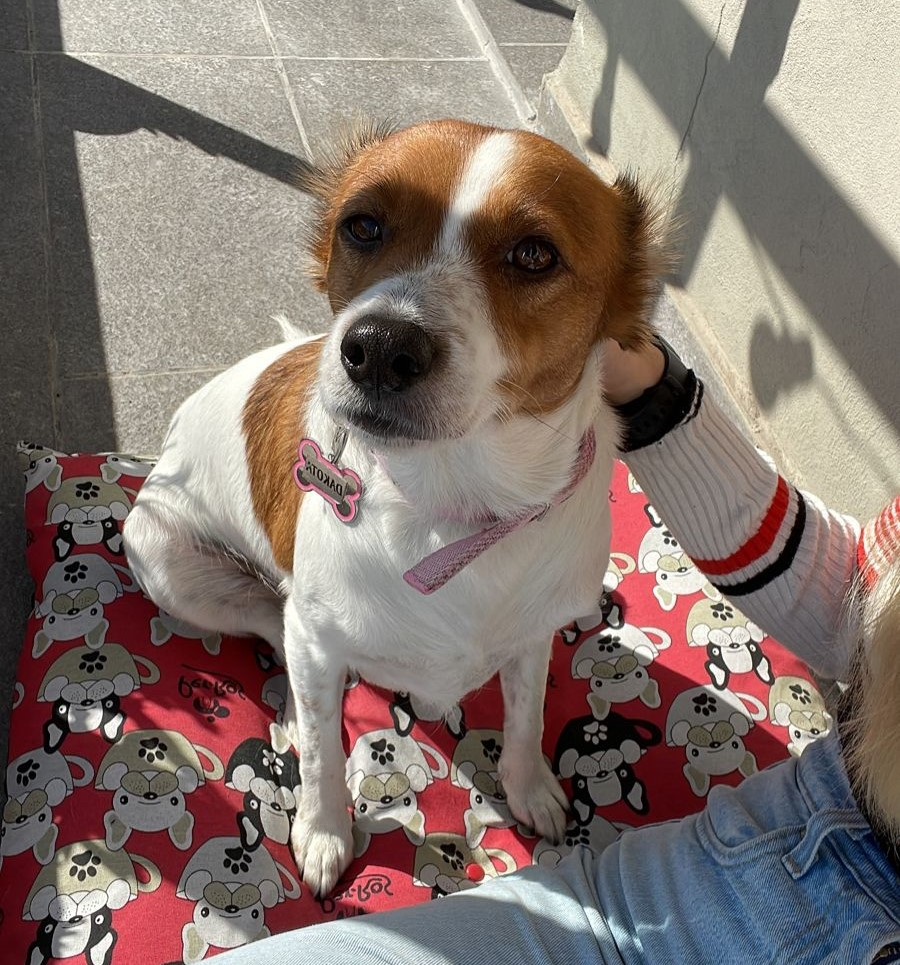
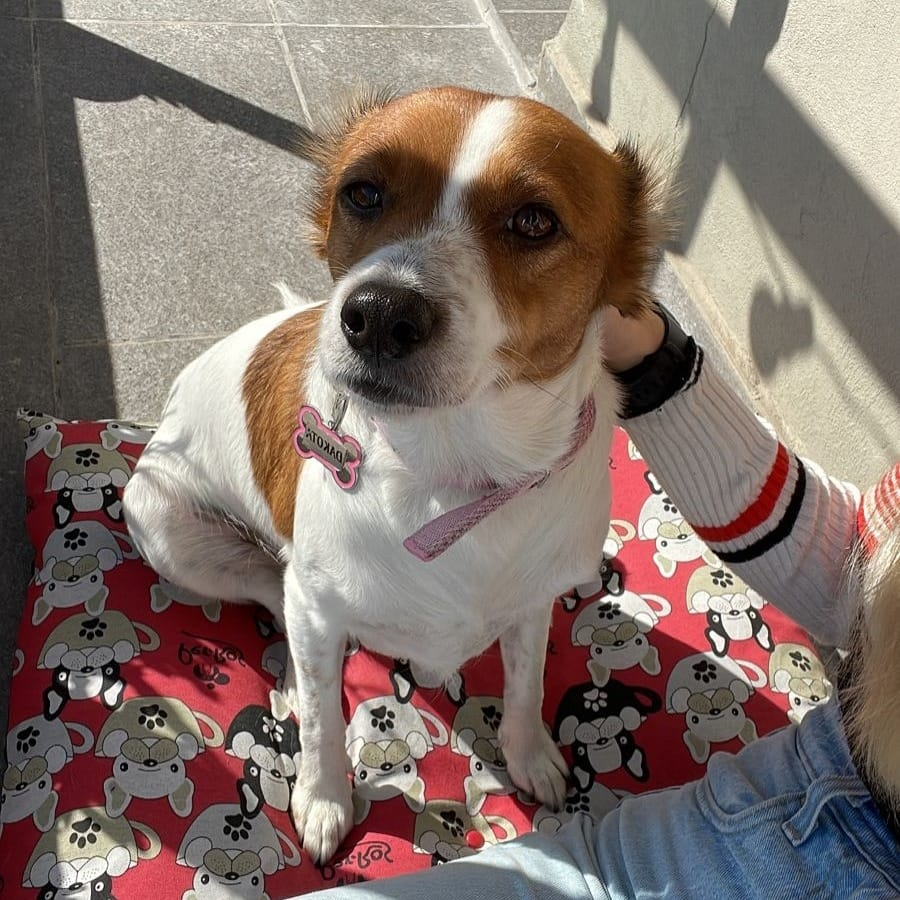
cambio imagenes, color headers

diff --git a/index.html b/index.html
@@ -25,11 +25,17 @@
                     <img src="./img/dakota.jpg" class="d-block w-100 rounded-circle fotodatoka" alt="...">
                 </div>
                 <div class="carousel-item">
-                    <img src="./img/dakota.jpg" class="d-block w-100 rounded-circle fotodatoka" alt="...">
+                    <img src="./img/dakota2.jpg" class="d-block w-100 rounded-circle fotodatoka" alt="...">
                 </div>
                 <div class="carousel-item">
-                    <img src="./img/dakota.jpg" class="d-block w-100 rounded-circle fotodatoka" alt="...">
+                    <img src="./img/dakota3.jpg" class="d-block w-100 rounded-circle fotodatoka" alt="...">
                 </div>
+                <div class="carousel-item">
+                  <img src="./img/dakota4.jpg" class="d-block w-100 rounded-circle fotodatoka" alt="...">
+              </div>
+              <div class="carousel-item">
+                <img src="./img/dakota3.jpg" class="d-block w-100 rounded-circle fotodatoka" alt="...">
+            </div>
                 </div>
                 <a class="carousel-control-prev text-dark" href="#carouselExampleIndicators" role="button" data-slide="prev">
                 <span  aria-hidden="true"><i class="fa-solid fa-angle-left"></i> </span>
@@ -66,7 +72,8 @@
                             <li><b> Edad:</b> 4 añitos.</li>
                             <li><b> Genero:</b> Hembra.</li>
                             <li><b> Raza:</b> Calle y Baldoza.</li>
-                            <li>Me llevo muy bien con perritos y gatitos.</li>
+                            <li>Me llevo muy bien con perritos 🐶 y gatitos 😸.</li>
+                            <center><li style="font-size: 25px;"></li></center>
                         </ul>
                     </div>
                   </div>
@@ -74,7 +81,7 @@
 
                 <!-- MIS DUEÑOS -->
                 <div class="card">
-                  <div class="card-header" id="headingTwo">
+                  <div class="card-header" id="headingTwo" >
                     <h2 class="mb-0">
                       <button class="btn btn-link collapsed" type="button" data-toggle="collapse" data-target="#collapseTwo" aria-expanded="false" aria-controls="collapseTwo" style="color: rgb(0, 0, 0);">
                         <h4 >MI DUEÑA <i class="fa-solid fa-chevron-down"></i></h4>
@@ -86,7 +93,7 @@
                         <ul class="datos">
                             <li><b>Nombre: </b> Josefina Carrio.</li>
                             <li><b> Celular:</b> 3624-887474.</li>
-                            <li><b> Dirección Corrientes:</b> Rivadavia 353, Piso: 5º B.</li>
+                            <li><b> Dirección Corrientes:</b> Rivadavia 353</li>
                             <li><b> Dirección Resistencia:</b> Guemes 366</li>
                             <a href="https://api.whatsapp.com/send?phone=543624887474&text=Hola.%20Encontre%20a%20Dakota"><i class="fa-brands fa-whatsapp"></i> Escribe por whatsapp </a>
                             <br>   
@@ -106,8 +113,8 @@
                     </h2>
                   </div>
                   <div id="collapseThree" class="collapse" aria-labelledby="headingThree" data-parent="#accordionExample">
-                    <div class="card-body">
-                        <iframe src="https://www.google.com/maps/embed?pb=!1m18!1m12!1m3!1d884.9671265179873!2d-58.847212315297085!3d-27.47335279716479!2m3!1f0!2f0!3f0!3m2!1i1024!2i768!4f13.1!3m3!1m2!1s0x94456cbe7c115d55%3A0xfb9a9cb2b0d77d27!2sRivadavia%20353%2C%20W3400%20Corrientes!5e0!3m2!1ses-419!2sar!4v1672358313158!5m2!1ses-419!2sar" width="380" height="450" style="border:0;" allowfullscreen="" loading="lazy" referrerpolicy="no-referrer-when-downgrade"></iframe>                </div>
+                    <div class="card-body px-0">
+                        <iframe src="https://www.google.com/maps/embed?pb=!1m18!1m12!1m3!1d884.9671265179873!2d-58.847212315297085!3d-27.47335279716479!2m3!1f0!2f0!3f0!3m2!1i1024!2i768!4f13.1!3m3!1m2!1s0x94456cbe7c115d55%3A0xfb9a9cb2b0d77d27!2sRivadavia%20353%2C%20W3400%20Corrientes!5e0!3m2!1ses-419!2sar!4v1672358313158!5m2!1ses-419!2sar" width="auto" height="450" style="border:0;" allowfullscreen="" loading="lazy" referrerpolicy="no-referrer-when-downgrade"></iframe>                </div>
                   </div>
                 </div>
 
@@ -121,8 +128,8 @@
                       </h2>
                     </div>
                     <div id="collapseFour" class="collapse" aria-labelledby="headingFour" data-parent="#accordionExample">
-                      <div class="card-body">
-                        <iframe src="https://www.google.com/maps/embed?pb=!1m18!1m12!1m3!1d3540.642083115115!2d-58.98451398255615!3d-27.449263100000007!2m3!1f0!2f0!3f0!3m2!1i1024!2i768!4f13.1!3m3!1m2!1s0x94450cf68d63efaf%3A0x1d86bfef0a460c1c!2sG%C3%BCemes%20366%2C%20H3500CBG%20Resistencia%2C%20Chaco!5e0!3m2!1ses-419!2sar!4v1672358861253!5m2!1ses-419!2sar" width="380" height="450" style="border:0;" allowfullscreen="" loading="lazy" referrerpolicy="no-referrer-when-downgrade"></iframe>                    </div>
+                      <div class="card-body px-0">
+                        <iframe src="https://www.google.com/maps/embed?pb=!1m18!1m12!1m3!1d3540.642083115115!2d-58.98451398255615!3d-27.449263100000007!2m3!1f0!2f0!3f0!3m2!1i1024!2i768!4f13.1!3m3!1m2!1s0x94450cf68d63efaf%3A0x1d86bfef0a460c1c!2sG%C3%BCemes%20366%2C%20H3500CBG%20Resistencia%2C%20Chaco!5e0!3m2!1ses-419!2sar!4v1672358861253!5m2!1ses-419!2sar" width="auto" height="450" style="border:0;" allowfullscreen="" loading="lazy" referrerpolicy="no-referrer-when-downgrade"></iframe>                    </div>
                   </div>
     </div>
 <!-- Optional JavaScript -->

diff --git a/css/estilos.css b/css/estilos.css
@@ -41,13 +41,16 @@ body{
 
 }
 
+
 .cuadrado{
     height: 40px;
     border-radius: 0px 30px 0px 0px;
     background-color: rgb(255, 255, 255);
 }
 
-
+.card-header{
+    background-color:rgb(255, 245, 255) ;
+}
   .datos{
     text-decoration: none;
     list-style-type:none;
